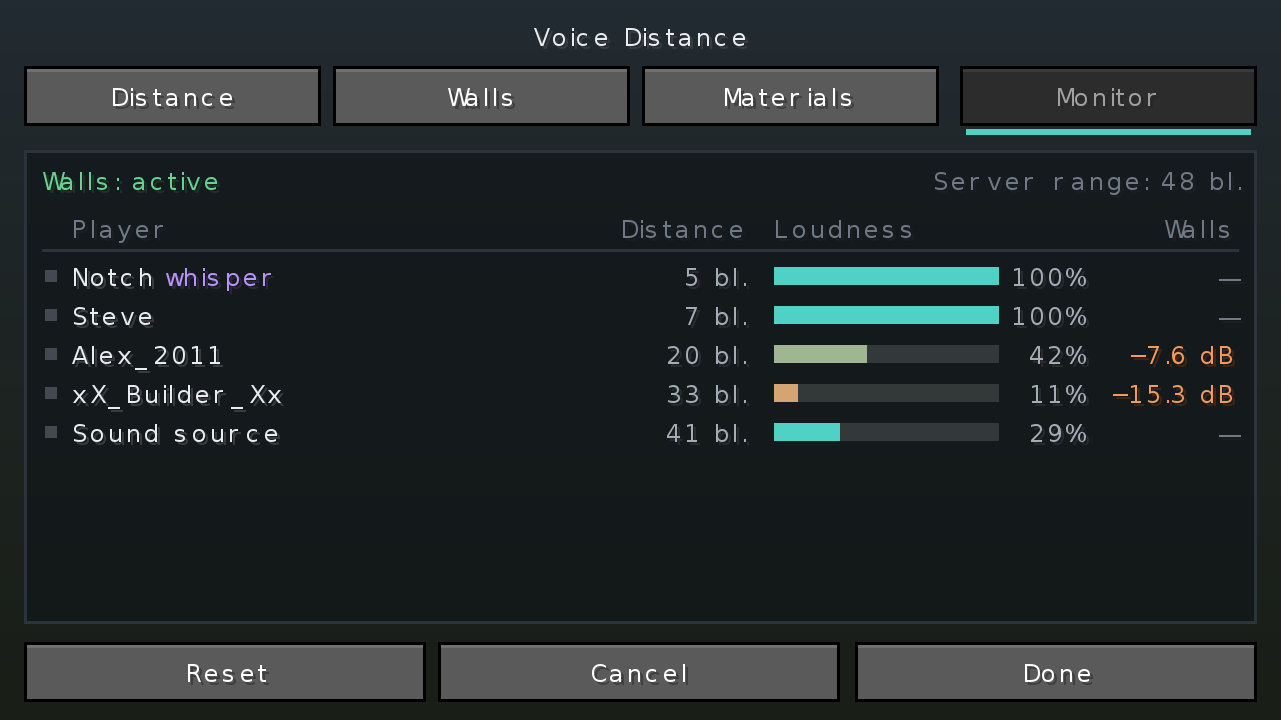
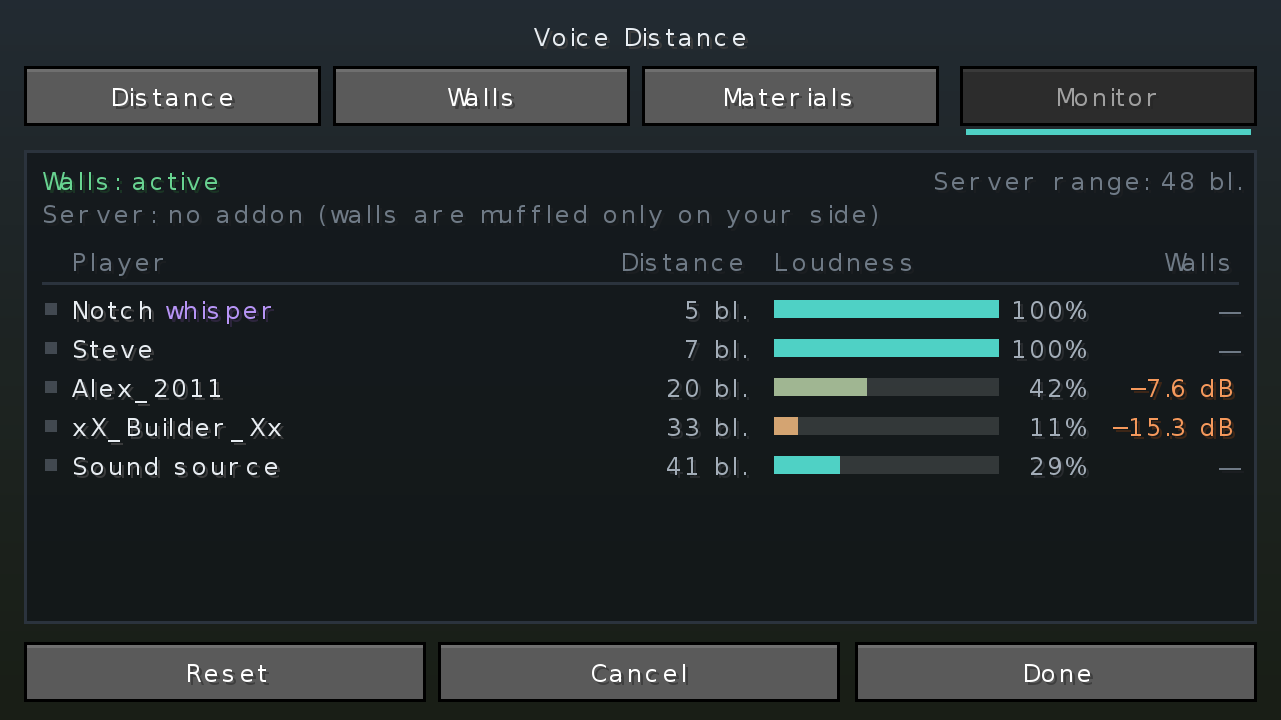
Refresh UI renders, add the enforced server profile render

diff --git a/README.md b/README.md
@@ -9,9 +9,9 @@
 
 **[English](#english)** · **[Русский](#русский)**
 
-| Distance / Дистанция | Walls / Стены | Monitor / Монитор |
-|---|---|---|
-| ![Distance](docs/images/ui-distance.png) | ![Walls](docs/images/ui-walls.png) | ![Monitor](docs/images/ui-monitor.png) |
+| Distance / Дистанция | Walls / Стены | Monitor / Монитор | Server profile / Профиль сервера |
+|---|---|---|---|
+| ![Distance](docs/images/ui-distance.png) | ![Walls](docs/images/ui-walls.png) | ![Monitor](docs/images/ui-monitor.png) | ![Server profile](docs/images/ui-server-enforced.png) |
 
 <sub>Renders of the settings screen made outside the game with the mod's own layout and drawing code. · Рендеры экрана настроек вне игры тем же кодом раскладки и отрисовки, что в моде.</sub>
 
